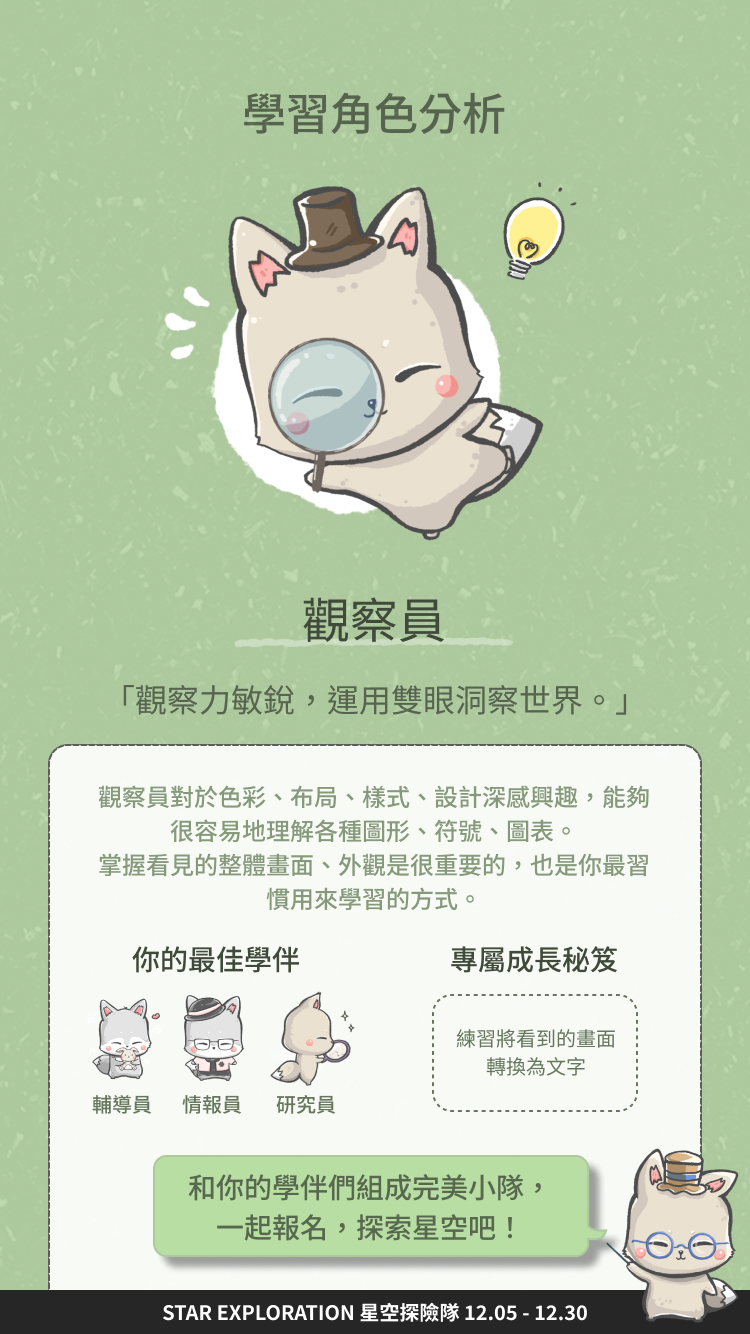
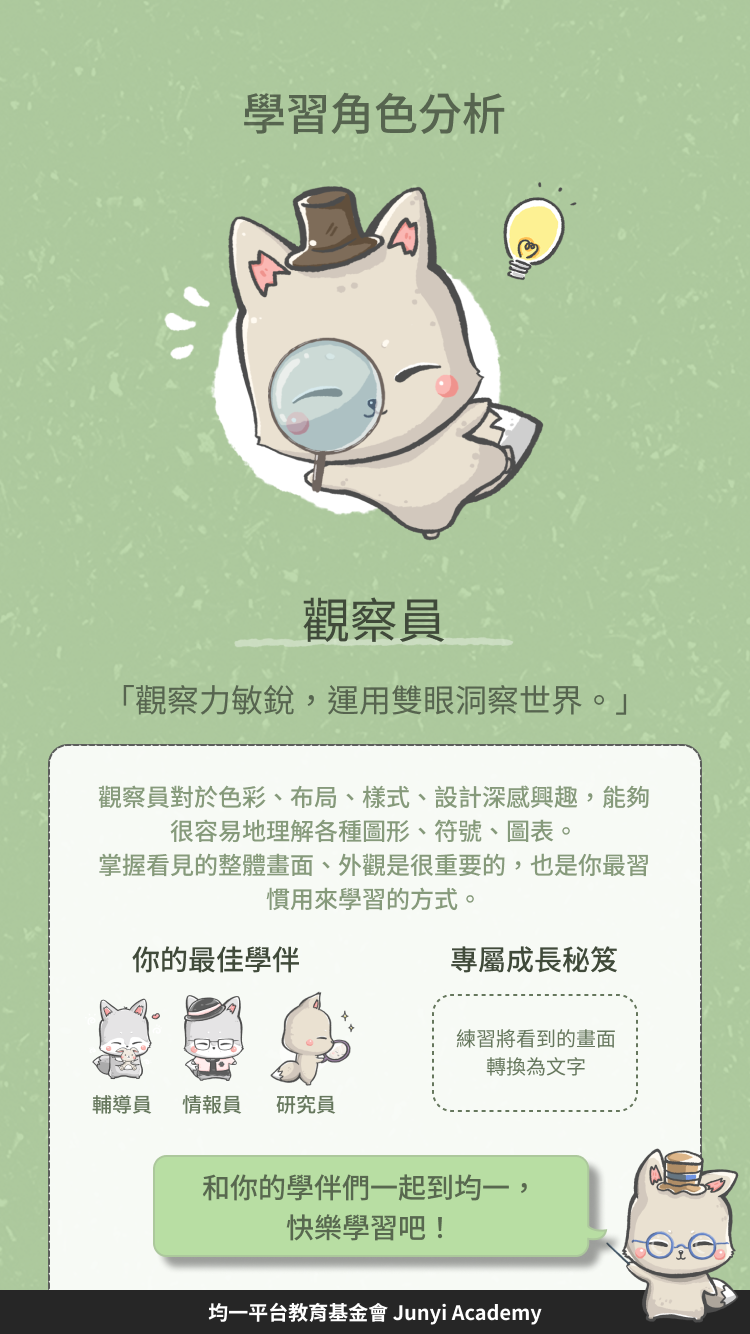
update junyi platform cta

Changed region(s): [[0.2147, 0.8606, 0.7973, 1.0]]

diff --git a/index.html b/index.html
@@ -449,7 +449,7 @@
             <div class="TopHint">
               <span>長按圖片儲存分享</span>
             </div>
-            <a href="https://pse.is/4ks9cp">
+            <a href="https://www.junyiacademy.org/">
               <div class="CTAButton"></div>
             </a>
             <!-- footer banner 位置 CTA，但目前此區域不需要 CTA ，故 comment 掉 -->
